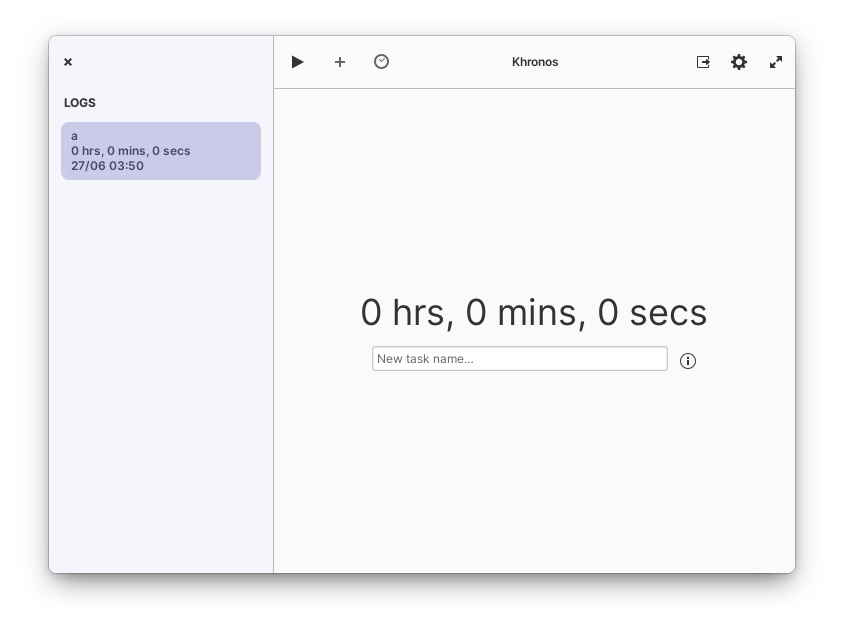
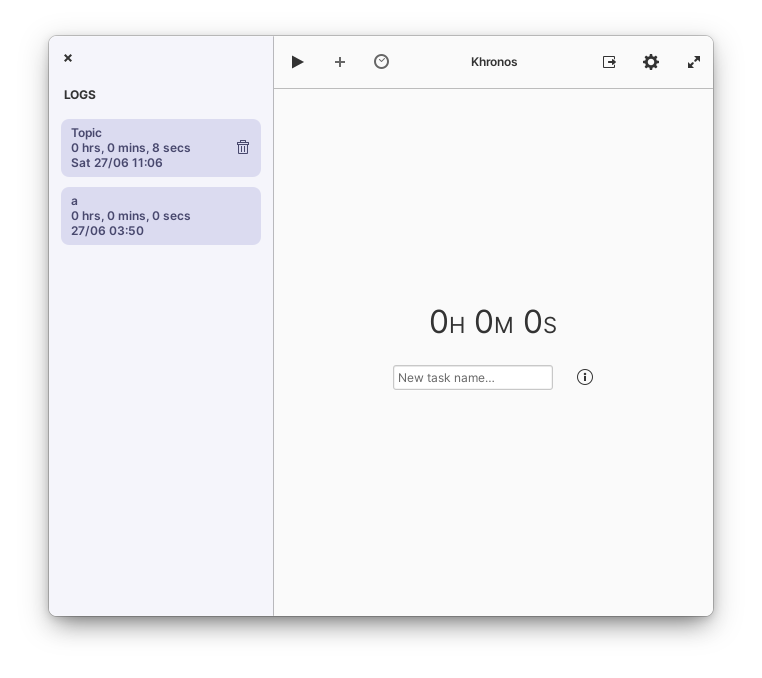
*

diff --git a/data/stylesheet.css b/data/stylesheet.css
@@ -28,7 +28,8 @@ window.unified decoration-overlay {
     border-right: none;
     border-radius: 8px;
     margin-bottom: 5px;
-    background-color: mix (@accent_color, #FFF, 0.5);
+    margin-top: 5px;
+    background-color: mix (@accent_color, #FFF, 0.66);
     color: shade (@accent_color, 0.5);
     font-weight: 600;
 }
@@ -66,7 +67,7 @@ window.unified decoration-overlay {
 }
 
 .tt-label {
-    font-size: 3rem;
+    font-size: 2.66rem;
 }
 
 .tt-toolbar {
